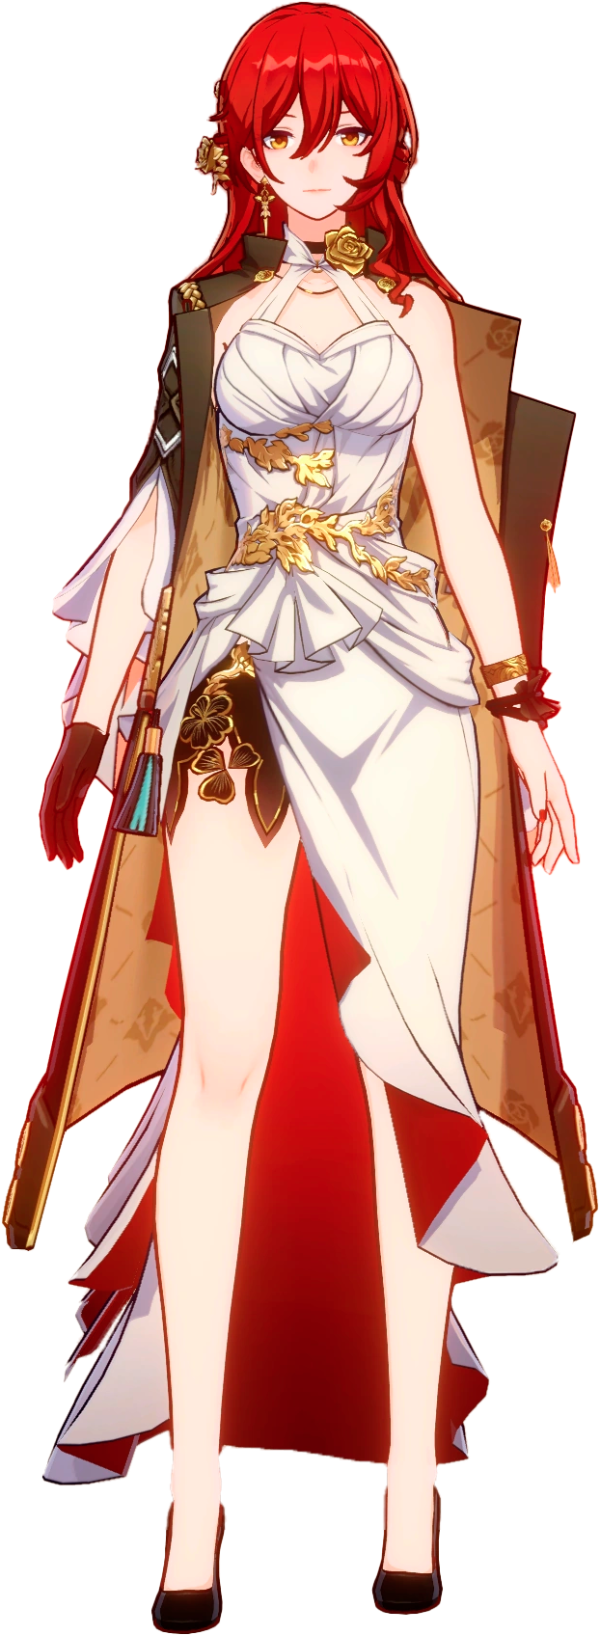
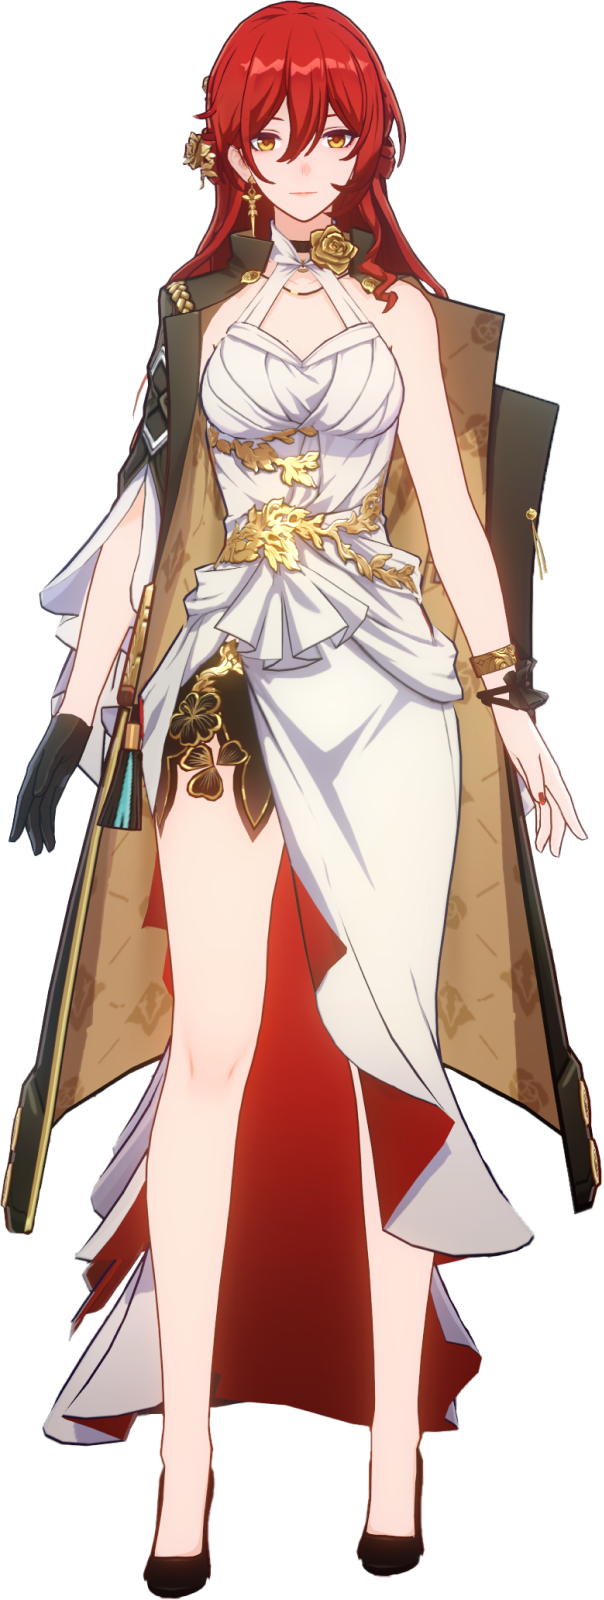
fix : Character Full Image Hi-Rex update

diff --git a/assets/images/@images_map/chacracter.ts b/assets/images/@images_map/chacracter.ts
@@ -21,7 +21,7 @@ const Character = {
   },
   "Dan Heng • Imbibitor Lunae": {
     icon: require("../../images/character_icon/dan_heng_il_icon.webp"),
-    imageFull: require("../../images/character_splash/dan_heng_il_splash.webp"),
+    imageFull: require("../../images/character_full/dan_heng_il_full.webp"),
     eidolon1: require("../../images/character_eidolon/dan_heng_il_eidolon1.webp"),
     eidolon2: require("../../images/character_eidolon/dan_heng_il_eidolon2.webp"),
     eidolon3: require("../../images/character_eidolon/dan_heng_il_eidolon3.webp"),
@@ -81,7 +81,7 @@ const Character = {
   },
   "Jing Yuan": {
     icon: require("../../images/character_icon/jing_yuan_icon.webp"),
-    imageFull: require("../../images/character_splash/jing_yuan_splash.webp"),
+    imageFull: require("../../images/character_full/jing_yuan_full.webp"),
     eidolon1: require("../../images/character_eidolon/jing_yuan_eidolon1.webp"),
     eidolon2: require("../../images/character_eidolon/jing_yuan_eidolon2.webp"),
     eidolon3: require("../../images/character_eidolon/jing_yuan_eidolon3.webp"),
@@ -91,7 +91,7 @@ const Character = {
   },
   Luocha: {
     icon: require("../../images/character_icon/luocha_icon.webp"),
-    imageFull: require("../../images/character_splash/luocha_splash.webp"),
+    imageFull: require("../../images/character_full/luocha_full.webp"),
     eidolon1: require("../../images/character_eidolon/luocha_eidolon1.webp"),
     eidolon2: require("../../images/character_eidolon/luocha_eidolon2.webp"),
     eidolon3: require("../../images/character_eidolon/luocha_eidolon3.webp"),
@@ -131,7 +131,7 @@ const Character = {
   },
   Seele: {
     icon: require("../../images/character_icon/seele_icon.webp"),
-    imageFull: require("../../images/character_full/seele_full.png"),
+    imageFull: require("../../images/character_full/seele_full.webp"),
     eidolon1: require("../../images/character_eidolon/seele_eidolon1.webp"),
     eidolon2: require("../../images/character_eidolon/seele_eidolon2.webp"),
     eidolon3: require("../../images/character_eidolon/seele_eidolon3.webp"),
@@ -201,7 +201,7 @@ const Character = {
   },
   Guinaifen: {
     icon: require("../../images/character_icon/guinaifen_icon.webp"),
-    imageFull: require("../../images/character_splash/guinaifen_splash.webp"),
+    imageFull: require("../../images/character_full/guinaifen_full.webp"),
     eidolon1: require("../../images/character_eidolon/guinaifen_eidolon1.webp"),
     eidolon2: require("../../images/character_eidolon/guinaifen_eidolon2.webp"),
     eidolon3: require("../../images/character_eidolon/guinaifen_eidolon3.webp"),
@@ -211,7 +211,7 @@ const Character = {
   },
   Yukong: {
     icon: require("../../images/character_icon/yukong_icon.webp"),
-    imageFull: require("../../images/character_splash/yukong_splash.webp"),
+    imageFull: require("../../images/character_full/yukong_full.webp"),
     eidolon1: require("../../images/character_eidolon/yukong_eidolon1.webp"),
     eidolon2: require("../../images/character_eidolon/yukong_eidolon2.webp"),
     eidolon3: require("../../images/character_eidolon/yukong_eidolon3.webp"),
@@ -251,7 +251,7 @@ const Character = {
   },
   Luka: {
     icon: require("../../images/character_icon/luka_icon.webp"),
-    imageFull: require("../../images/character_splash/luka_splash.webp"),
+    imageFull: require("../../images/character_full/luka_full.webp"),
     eidolon1: require("../../images/character_eidolon/luka_eidolon1.webp"),
     eidolon2: require("../../images/character_eidolon/luka_eidolon2.webp"),
     eidolon3: require("../../images/character_eidolon/luka_eidolon3.webp"),
@@ -261,7 +261,7 @@ const Character = {
   },
   Lynx: {
     icon: require("../../images/character_icon/lynx_icon.webp"),
-    imageFull: require("../../images/character_splash/lynx_splash.webp"),
+    imageFull: require("../../images/character_full/lynx_full.webp"),
     eidolon1: require("../../images/character_eidolon/lynx_eidolon1.webp"),
     eidolon2: require("../../images/character_eidolon/lynx_eidolon2.webp"),
     eidolon3: require("../../images/character_eidolon/lynx_eidolon3.webp"),
